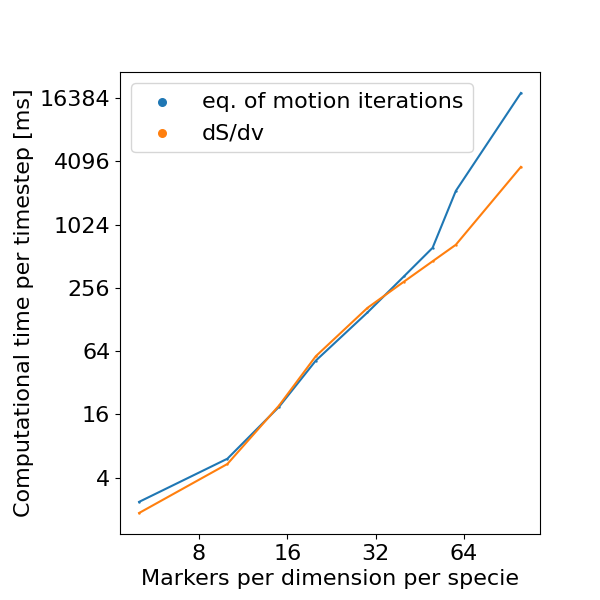
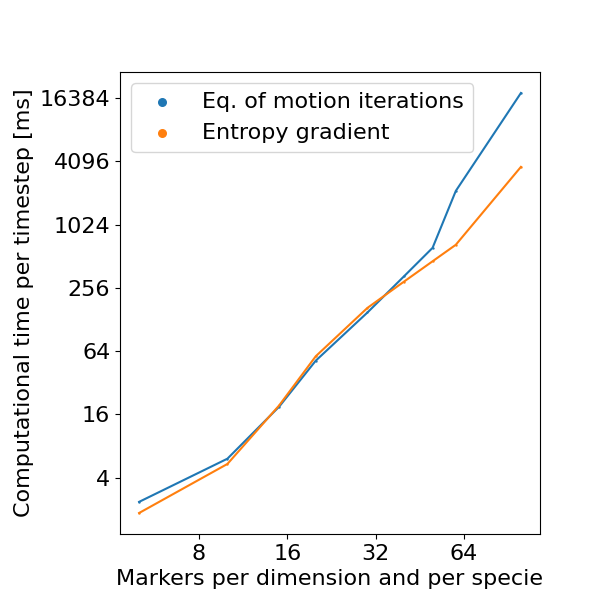
Update benchmark plots

Changed region(s): [[0.18, 0.93, 0.9, 0.99], [0.33, 0.15, 0.66, 0.24], [0.42, 0.15, 0.78, 0.18]]

diff --git a/plot_benchmark.py b/plot_benchmark.py
@@ -9,7 +9,7 @@ import matplotlib.ticker as mtick
 plt.figure(figsize=(6,6))
 plt.rcParams.update({'font.size': 16})
 
-file = open("benchmarks.txt", "r")
+file = open("plots/benchmarks.txt", "r")
 lines = file.readlines()
 ns = np.zeros(len(lines))
 times_dsdv = np.zeros(len(lines))
@@ -26,15 +26,15 @@ ns_log = np.log(ns)
 dsdv_log = np.log(times_dsdv)
 plt.clf()
 plt.ticklabel_format(style='plain', axis='x')
-plt.scatter(ns, times_eqmotion, s=0.5, label="eq. motion iterations")
+plt.scatter(ns, times_eqmotion, s=0.5, label="Eq. of motion iterations")
 plt.plot(ns, times_eqmotion)
-plt.scatter(ns, times_dsdv, s=0.5, label="dS/dv")
+plt.scatter(ns, times_dsdv, s=0.5, label="Entropy gradient")
 plt.plot(ns, times_dsdv)
 legend = plt.legend()
 legend.legendHandles[0]._sizes = [30]
 legend.legendHandles[1]._sizes = [30]
-plt.xlabel("n")
-plt.ylabel("Time per timestep [ms]")
+plt.xlabel("Markers per dimension and per specie")
+plt.ylabel("Computational time per timestep [ms]")
 plt.yscale("log", base=2)
 plt.xscale("log", base=2)
 plt.gca().xaxis.set_major_formatter(ScalarFormatter())
